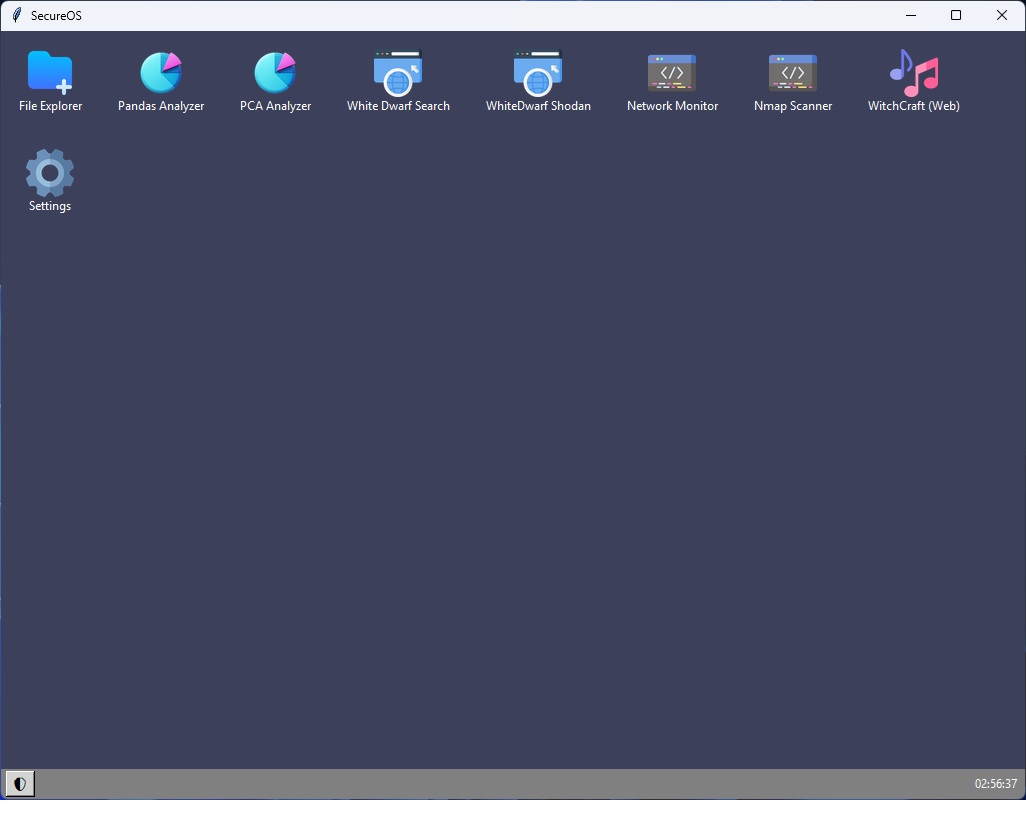
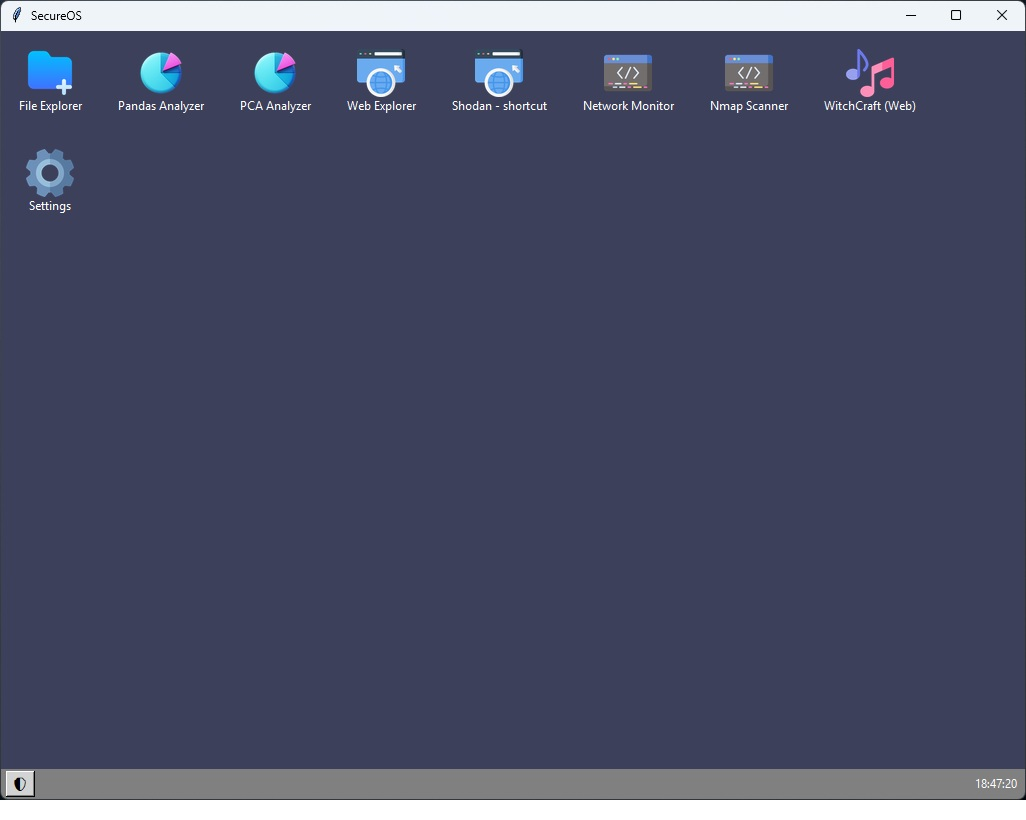
Feature-fix/added ne functionalities to the browser

Changed region(s): [[0.3431, 0.061, 0.9357, 0.1524], [0.9669, 0.9451, 1.0, 0.9756], [0.0, 0.9451, 0.0312, 0.9756]]

diff --git a/main.py b/main.py
@@ -181,18 +181,6 @@ def CompareTotal(data1, data2):
 def SaveFile(data, path):
     data.to_csv(path)
 
-def open_white_dwarf(self):
-    """Otwiera aplikację White Dwarf Web Searcher."""
-    if "white_dwarf" not in self.app_windows or not self.app_windows["white_dwarf"].winfo_exists():
-        win = tk.Toplevel(self.root)
-        win.title("White Dwarf Web Searcher")
-        win.geometry("700x500")
-        self.app_windows["white_dwarf"] = win
-        self.create_white_dwarf_widgets(win)
-        self.add_taskbar_button("white_dwarf", "🔎 Web Search", win)
-    else:
-        self.app_windows["white_dwarf"].lift()
-
 
 # --- Backend Tornado API ---
 class StockSearchHandler(tornado.web.RequestHandler):
@@ -553,11 +541,10 @@ class OS:
             {"name": "File Explorer", "icon": "folder_icon.png", "action": self.open_file_manager},
             {"name": "Pandas Analyzer", "icon": "chart_icon.png", "action": self.open_pandas_analyzer},
             {"name": "PCA Analyzer", "icon": "chart_icon.png", "action": self.open_pca_analyzer},
-            {"name": "White Dwarf Search", "icon": "browser.png", "action": lambda: open_white_dwarf(self)},
             # ### NOWY KOD ###
-            {"name": "Engine++ Crawler", "icon": "browser.png", "action": self.open_enginepp_crawler},
+            {"name": "Web Explorer", "icon": "browser.png", "action": self.open_web_explorer},
             # ### KONIEC NOWEGO KODU ###
-            {"name": "WhiteDwarf Shodan", "icon": "browser.png", "action": self.open_white_dwarf_shodan},
+            {"name": "Shodan - shortcut", "icon": "browser.png", "action": self.open_white_dwarf_shodan},
             {"name": "Network Monitor", "icon": "network_monitor.png", "action": self.launch_java_app},
             {"name": "Nmap Scanner", "icon": "network_scanner.png", "action": self.open_nmap_scanner},
             {"name": "WitchCraft (Web)", "icon": "musical-note.png", "action": self.open_yii_app},
@@ -620,24 +607,39 @@ class OS:
             self.add_taskbar_button("file_manager", "📁 Explorer", win)
         else:
             self.app_windows["file_manager"].lift()
-    
-    # ### NOWY KOD: POCZĄTEK METOD DLA APLIKACJI ENGINE++ CRAWLER ###
-    def open_enginepp_crawler(self):
-        """Otwiera aplikację Engine++ Crawler."""
-        if "enginepp_crawler" not in self.app_windows or not self.app_windows["enginepp_crawler"].winfo_exists():
-            win = tk.Toplevel(self.root)
-            win.title("Engine++ Crawler")
-            win.geometry("700x550")
-            self.app_windows["enginepp_crawler"] = win
-            self.create_enginepp_crawler_widgets(win)
-            self.add_taskbar_button("enginepp_crawler", "🕷 Crawler", win)
-        else:
-            self.app_windows["enginepp_crawler"].lift()
 
+    # ### NOWY KOD: POCZĄTEK METODY DLA POŁĄCZONEJ APLIKACJI ###
+    def open_web_explorer(self):
+        """Otwiera aplikację Web Explorer z zakładkami do wyszukiwania i crawlowania."""
+        app_key = "web_explorer"
+        if app_key not in self.app_windows or not self.app_windows[app_key].winfo_exists():
+            win = tk.Toplevel(self.root)
+            win.title("Web Explorer")
+            win.geometry("800x600")
+            self.app_windows[app_key] = win
+
+            notebook = ttk.Notebook(win)
+            notebook.pack(fill="both", expand=True, padx=5, pady=5)
+
+            # Zakładka Web Search
+            search_frame = ttk.Frame(notebook, padding="10")
+            notebook.add(search_frame, text="White Dwarf Search")
+            self.create_white_dwarf_widgets(search_frame)
+
+            # Zakładka Website Crawler
+            crawler_frame = ttk.Frame(notebook, padding="10")
+            notebook.add(crawler_frame, text="Website Crawler")
+            self.create_enginepp_crawler_widgets(crawler_frame)
+
+            self.add_taskbar_button(app_key, "🌐 Web Explorer", win)
+        else:
+            self.app_windows[app_key].lift()
+    # ### KONIEC NOWEGO KODU ###
+    
     def create_enginepp_crawler_widgets(self, parent):
         """Tworzy widżety dla aplikacji Engine++ Crawler."""
-        input_frame = ttk.Frame(parent, padding="10")
-        input_frame.pack(fill=tk.X)
+        input_frame = ttk.Frame(parent)
+        input_frame.pack(fill=tk.X, pady=(0, 10))
 
         ttk.Label(input_frame, text="Start URL:").pack(side=tk.LEFT, padx=(0, 5))
         self.crawler_url_entry = ttk.Entry(input_frame, width=40)
@@ -647,11 +649,11 @@ class OS:
         self.crawler_run_button = ttk.Button(input_frame, text="Start Crawl", command=self._run_crawl_thread)
         self.crawler_run_button.pack(side=tk.LEFT, padx=(10, 0))
 
-        results_frame = ttk.Frame(parent, padding="5")
+        results_frame = ttk.Frame(parent)
         results_frame.pack(fill=tk.BOTH, expand=True)
 
         self.crawler_status_label = ttk.Label(results_frame, text="Gotowy.", font=("Helvetica", 10))
-        self.crawler_status_label.pack(side=tk.BOTTOM, fill=tk.X)
+        self.crawler_status_label.pack(side=tk.BOTTOM, fill=tk.X, pady=(5,0))
 
         self.crawler_results_text = scrolledtext.ScrolledText(results_frame, wrap=tk.WORD, state=tk.DISABLED)
         self.crawler_results_text.pack(fill=tk.BOTH, expand=True)
@@ -721,7 +723,6 @@ class OS:
 
         self.crawler_results_text.config(state=tk.DISABLED)
         self.crawler_run_button.config(state=tk.NORMAL)
-    # ### KONIEC NOWEGO KODU ###
 
     def open_nmap_scanner(self):
         """Otwiera aplikację Nmap Banner Scanner."""
@@ -1129,25 +1130,28 @@ class OS:
 
     def create_white_dwarf_widgets(self, parent):
         input_frame = Frame(parent)
-        input_frame.pack(fill=tk.X, padx=10, pady=5)
+        input_frame.pack(fill=tk.X, pady=5)
         tk.Label(input_frame, text="Adres URL:").pack(side=tk.LEFT)
         self.dwarf_url_entry = tk.Entry(input_frame)
         self.dwarf_url_entry.pack(side=tk.LEFT, fill=tk.X, expand=True, padx=5)
         self.dwarf_url_entry.insert(0, "https://www.reuters.com/technology/")
+        
         query_frame = Frame(parent)
-        query_frame.pack(fill=tk.X, padx=10, pady=5)
+        query_frame.pack(fill=tk.X, pady=5)
         tk.Label(query_frame, text="Szukana fraza:").pack(side=tk.LEFT)
         self.dwarf_query_entry = tk.Entry(query_frame)
         self.dwarf_query_entry.pack(side=tk.LEFT, fill=tk.X, expand=True, padx=5)
         self.dwarf_query_entry.insert(0, "AI")
+        
         action_frame = Frame(parent)
-        action_frame.pack(fill=tk.X, padx=10, pady=5)
+        action_frame.pack(fill=tk.X, pady=5)
         Button(action_frame, text="Szukaj", command=self._perform_web_search).pack(side=tk.LEFT)
         self.dwarf_sentiment_label = tk.Label(action_frame, text="Sentyment: -", font=("Arial", 12, "bold"))
         self.dwarf_sentiment_label.pack(side=tk.LEFT, padx=20)
         Button(action_frame, text="Analiza PCA", command=self._run_pca_on_results).pack(side=tk.LEFT, padx=10)
+        
         self.dwarf_result_box = scrolledtext.ScrolledText(parent, width=80, height=20)
-        self.dwarf_result_box.pack(padx=10, pady=10, fill="both", expand=True)
+        self.dwarf_result_box.pack(pady=10, fill="both", expand=True)
 
     def update_network_info(self):
         def _get_info():
@@ -1189,20 +1193,26 @@ class OS:
             response = requests.post(server_url, json={"url": url, "query": query}, timeout=20)
             response.raise_for_status()
             data = response.json()
-            self.dwarf_result_box.delete(1.0, tk.END)
-            self.dwarf_result_box.insert(tk.END, data.get("results", "Brak wyników w odpowiedzi."))
-            self.dwarf_sentiment_label.config(text=f"Sentyment: {data.get('sentiment', '-')}")
+            self.root.after(0, self._update_search_gui, data)
         except requests.exceptions.RequestException as e:
             messagebox.showerror("Błąd Połączenia", f"Nie można połączyć się z serwerem: {e}")
-            self.dwarf_result_box.delete(1.0, tk.END)
-            self.dwarf_sentiment_label.config(text="Sentyment: -")
+            self.root.after(0, self._reset_search_gui)
         except Exception as e:
             messagebox.showerror("Błąd Aplikacji", f"Wystąpił nieoczekiwany błąd: {e}")
-            self.dwarf_result_box.delete(1.0, tk.END)
-            self.dwarf_sentiment_label.config(text="Sentyment: -")
+            self.root.after(0, self._reset_search_gui)
+
+    def _update_search_gui(self, data):
+        self.dwarf_result_box.delete(1.0, tk.END)
+        self.dwarf_result_box.insert(tk.END, data.get("results", "Brak wyników w odpowiedzi."))
+        self.dwarf_sentiment_label.config(text=f"Sentyment: {data.get('sentiment', '-')}")
+
+    def _reset_search_gui(self):
+        self.dwarf_result_box.delete(1.0, tk.END)
+        self.dwarf_sentiment_label.config(text="Sentyment: -")
+
 
     def _run_pca_on_results(self):
-        if "white_dwarf" not in self.app_windows or not self.app_windows["white_dwarf"].winfo_exists():
+        if "web_explorer" not in self.app_windows or not self.app_windows["web_explorer"].winfo_exists():
             messagebox.showinfo("Informacja", "Najpierw wykonaj wyszukiwanie, aby uzyskać tekst do analizy.")
             return
         results_text = self.dwarf_result_box.get("1.0", tk.END)
@@ -1273,11 +1283,6 @@ if __name__ == "__main__":
     root = tk.Tk()
     root.title("SecureOS")
     root.geometry("1024x768")
-    app = OS(root)
-    root.mainloop()
-    
     my_os = OS(root)
-    
     root.protocol("WM_DELETE_WINDOW", my_os.shutdown)
-    
     root.mainloop()
